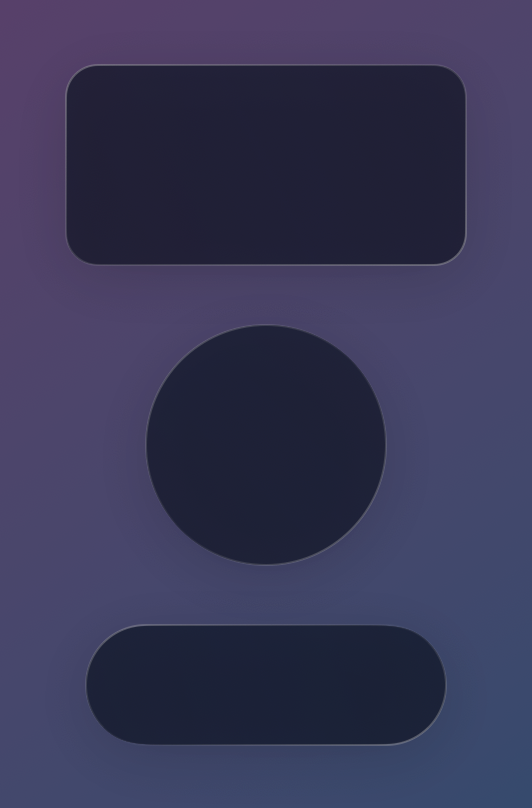
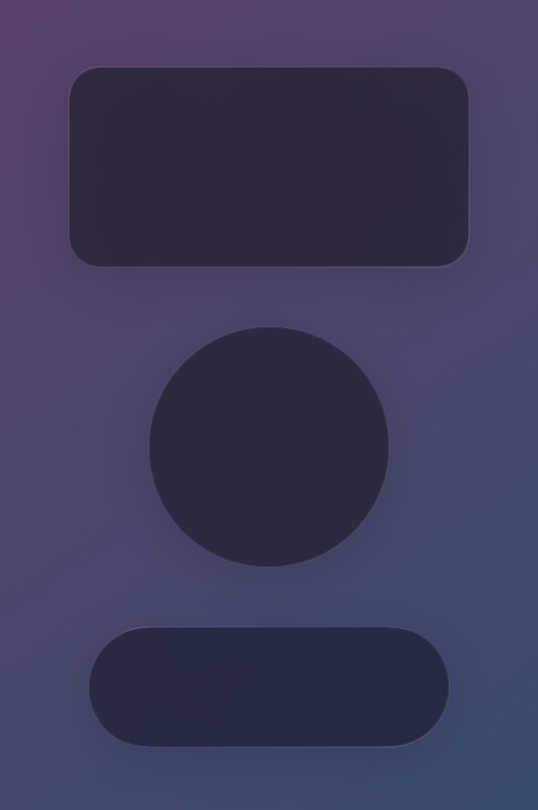
refactor: update color handling in GlassStyle and remove unused assets

diff --git a/Sources/LiquidGlass/LiquidGlass.swift b/Sources/LiquidGlass/LiquidGlass.swift
@@ -47,11 +47,11 @@ public struct GlassStyle: View {
     // MARK: - Computed colors
 
     /// Effective base color (tint or accent)
-    private var color: Color { tintColor ?? .accentColor }
+    private var color: Color { tintColor ?? ( colorScheme == .dark ? .black : .white) }
 
     /// Slight bright/dark highlight depending on environment
     private var highlightColor: Color {
-        colorScheme == .dark ? .black.opacity(0.65) : .white.opacity(0.7)
+        colorScheme == .dark ? .black.opacity(0.4) : .white.opacity(0.9)
     }
 
     /// Shadow color tuned for light/dark modes
@@ -62,7 +62,7 @@ public struct GlassStyle: View {
     /// Stroke base color (thin white-ish strokes in either mode)
     private var strokeColor: Color {
         tintColor?.opacity(0.3) ??
-        (colorScheme == .dark ? Color.gray.opacity(0.6) : Color.white.opacity(0.9))
+        (colorScheme == .dark ? Color.gray.opacity(0.25) : Color.white)
     }
 
     // MARK: - Gradients and styles
@@ -71,9 +71,9 @@ public struct GlassStyle: View {
     private var tintGradient: LinearGradient {
         LinearGradient(
             gradient: Gradient(colors: [
-                color.opacity(0.1),
-                color.opacity(0.12),
-                color.opacity(0.1)
+                color.opacity(0.005),
+                color.opacity(0.012),
+                color.opacity(0.008)
             ]),
             startPoint: .topTrailing,
             endPoint: .bottomLeading

diff --git a/Package.swift b/Package.swift
@@ -23,7 +23,7 @@ let package = Package(
         // Targets are the basic building blocks of a package, defining a module or a test suite.
         // Targets can depend on other targets in this package and products from dependencies.
         .target(
-            name: "LiquidGlass"
+            name: "LiquidGlass",
         ),
         .testTarget(
             name: "LiquidGlassTests",
